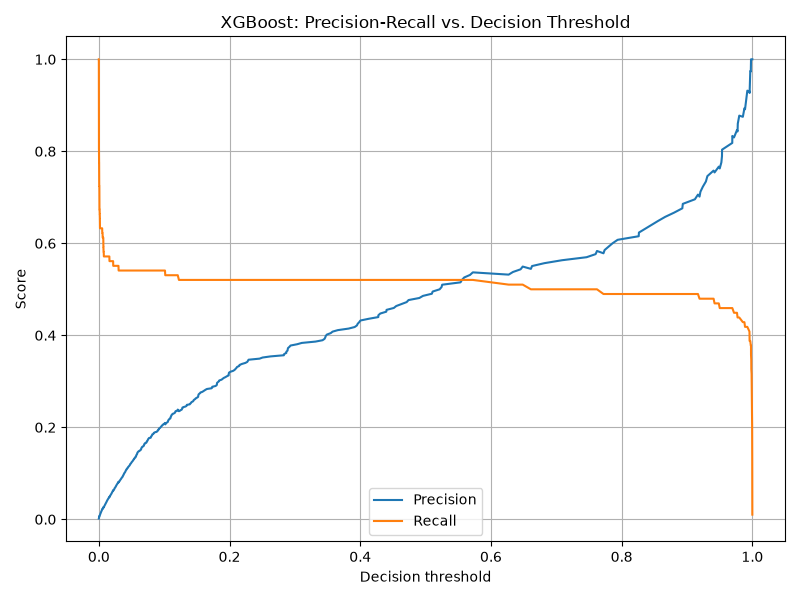
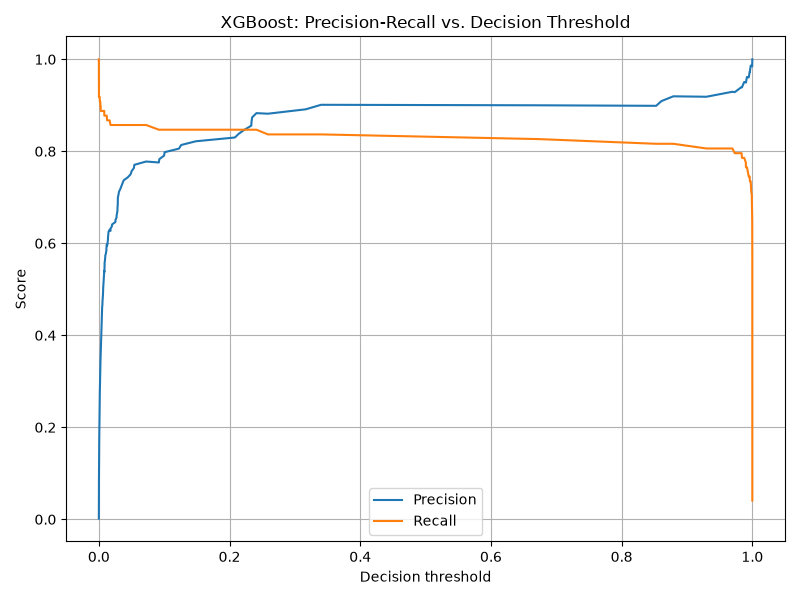
Retrain on aligned data; move alert threshold to 0.002
All models and analyses re-run on the transaction_id-aligned data
(pipeline steps 8-15; the PostgreSQL steps were unaffected, and card /
merchant IDs, and so the graph features, are unchanged).

Test-set results (old -> new):
- XGBoost baseline (served, 2.0.0): PR-AUC 0.501 -> 0.876, ROC-AUC 0.830 -> 0.975
- Logistic Regression: PR-AUC 0.266 -> 0.720
- XGBoost + graph features (3.0.0): PR-AUC 0.795 -> 0.928
- Ensemble (3.1.0-experimental): PR-AUC 0.794 -> 0.919

- cost_analysis.py: search thresholds on a 0.001 grid (the old 0.01 grid
  put the optimum on its lower edge) and warn if the optimum is at an
  edge; optimum at 100:1 FN:FP cost is now 0.002
- ALERT_THRESHOLD 0.10 -> 0.002 in api_service.py and realtime_simulation.py
- create_model_registry.py / model_registry.json: new metrics, training
  dates set to the retraining date (2026-09-23)
- regenerated plots: threshold_analysis, cost_analysis, shap_summary,
  autoencoder_error_distribution, ensemble_weight_search

diff --git a/src/create_model_registry.py b/src/create_model_registry.py
@@ -18,8 +18,8 @@ registry = {
             "name": "Logistic Regression Baseline",
             "file_path": None,  # not persisted, exploratory run only
             "feature_set": "base",
-            "training_date": "2026-08-01",
-            "metrics": {"pr_auc": 0.266, "roc_auc": 0.837},
+            "training_date": "2026-09-23",
+            "metrics": {"pr_auc": 0.720, "roc_auc": 0.972},
             "notes": "Linear baseline, balanced via class_weight='balanced'.",
         },
         {
@@ -27,8 +27,8 @@ registry = {
             "name": "XGBoost Baseline",
             "file_path": "models/xgboost_baseline_model.pkl",
             "feature_set": "base",
-            "training_date": "2026-08-01",
-            "metrics": {"pr_auc": 0.501, "roc_auc": 0.830},
+            "training_date": "2026-09-23",
+            "metrics": {"pr_auc": 0.876, "roc_auc": 0.975},
             "notes": "Balanced via scale_pos_weight, base feature set (amount, SQL features, V1-V28).",
         },
         {
@@ -36,8 +36,8 @@ registry = {
             "name": "XGBoost + Graph Features (Final)",
             "file_path": "models/xgboost_final_model.pkl",
             "feature_set": "base + graph",
-            "training_date": "2026-08-03",
-            "metrics": {"pr_auc": 0.795, "roc_auc": 0.935},
+            "training_date": "2026-09-23",
+            "metrics": {"pr_auc": 0.928, "roc_auc": 0.987},
             "notes": (
                 "Adds degree_centrality and community_size graph features. Highest PR-AUC of "
                 "any model, but not used in production: graph features require a full "
@@ -50,8 +50,8 @@ registry = {
             "name": "Ensemble (XGBoost + Autoencoder)",
             "file_path": None,  # reproduced from code, not persisted separately
             "feature_set": "base + graph",
-            "training_date": "2026-08-04",
-            "metrics": {"pr_auc": 0.794, "roc_auc": 0.939},
+            "training_date": "2026-09-23",
+            "metrics": {"pr_auc": 0.919, "roc_auc": 0.980},
             "notes": "Adding the autoencoder did not improve PR-AUC (see Week 5 analysis). Not promoted to production.",
         },
     ],

diff --git a/src/cost_analysis.py b/src/cost_analysis.py
@@ -48,20 +48,22 @@ model = XGBClassifier(scale_pos_weight=scale_pos_weight, random_state=RANDOM_STA
 model.fit(X_train, y_train)
 y_proba = model.predict_proba(X_test)[:, 1]
 
-thresholds = np.arange(0.01, 1.0, 0.01)
+thresholds = np.round(np.arange(0.001, 1.0, 0.001), 3)  # fine grid: the optimum can sit well below 0.01
 total_costs = total_cost_by_threshold(y_test, y_proba, thresholds)
 
 optimal_idx = np.argmin(total_costs)
 optimal_threshold = thresholds[optimal_idx]
 default_idx = np.argmin(np.abs(thresholds - DEFAULT_THRESHOLD))
 
-print(f"Optimal threshold: {optimal_threshold:.2f}")
+print(f"Optimal threshold: {optimal_threshold:.3f}")
+if optimal_idx in (0, len(thresholds) - 1):
+    print("WARNING: optimum is at the edge of the search grid; the true optimum may lie outside it.")
 print(f"Total cost at optimal threshold: ${total_costs[optimal_idx]:,.0f}")
 print(f"Total cost at default threshold ({DEFAULT_THRESHOLD}): ${total_costs[default_idx]:,.0f}")
 
 plt.figure(figsize=(10, 6))
 plt.plot(thresholds, total_costs, color="darkred")
-plt.axvline(optimal_threshold, color="green", linestyle="--", label=f"Optimal threshold: {optimal_threshold:.2f}")
+plt.axvline(optimal_threshold, color="green", linestyle="--", label=f"Optimal threshold: {optimal_threshold:.3f}")
 plt.axvline(DEFAULT_THRESHOLD, color="gray", linestyle="--", label=f"Default threshold: {DEFAULT_THRESHOLD}")
 plt.xlabel("Decision threshold")
 plt.ylabel("Total cost ($)")

diff --git a/src/api_service.py b/src/api_service.py
@@ -24,7 +24,7 @@ load_dotenv()
 
 REGISTRY_PATH = "models/model_registry.json"
 LOG_PATH = "logs/prediction_log.jsonl"
-ALERT_THRESHOLD = 0.10  # from the cost-sensitive threshold analysis, see README.md
+ALERT_THRESHOLD = 0.002  # cost-optimal at 100:1 FN:FP cost, see cost_analysis.py / README.md
 N8N_WEBHOOK_URL = os.getenv("N8N_WEBHOOK_URL")  # unset -> webhook notifications disabled
 # Explicit off switch (e.g. while populate_logs.py fills the logs). Needed because an
 # unset/empty N8N_WEBHOOK_URL is refilled from .env by load_dotenv().

diff --git a/src/realtime_simulation.py b/src/realtime_simulation.py
@@ -18,7 +18,7 @@ FEATURE_COLS_PATH = "models/baseline_feature_columns.pkl"
 
 SAMPLE_SEED = 7
 N_NORMAL_SAMPLES = 50
-ALERT_THRESHOLD = 0.10  # from the cost-sensitive threshold analysis, see README.md
+ALERT_THRESHOLD = 0.002  # cost-optimal at 100:1 FN:FP cost, see cost_analysis.py / README.md
 STREAM_DELAY_SECONDS = 0.1
 
 
